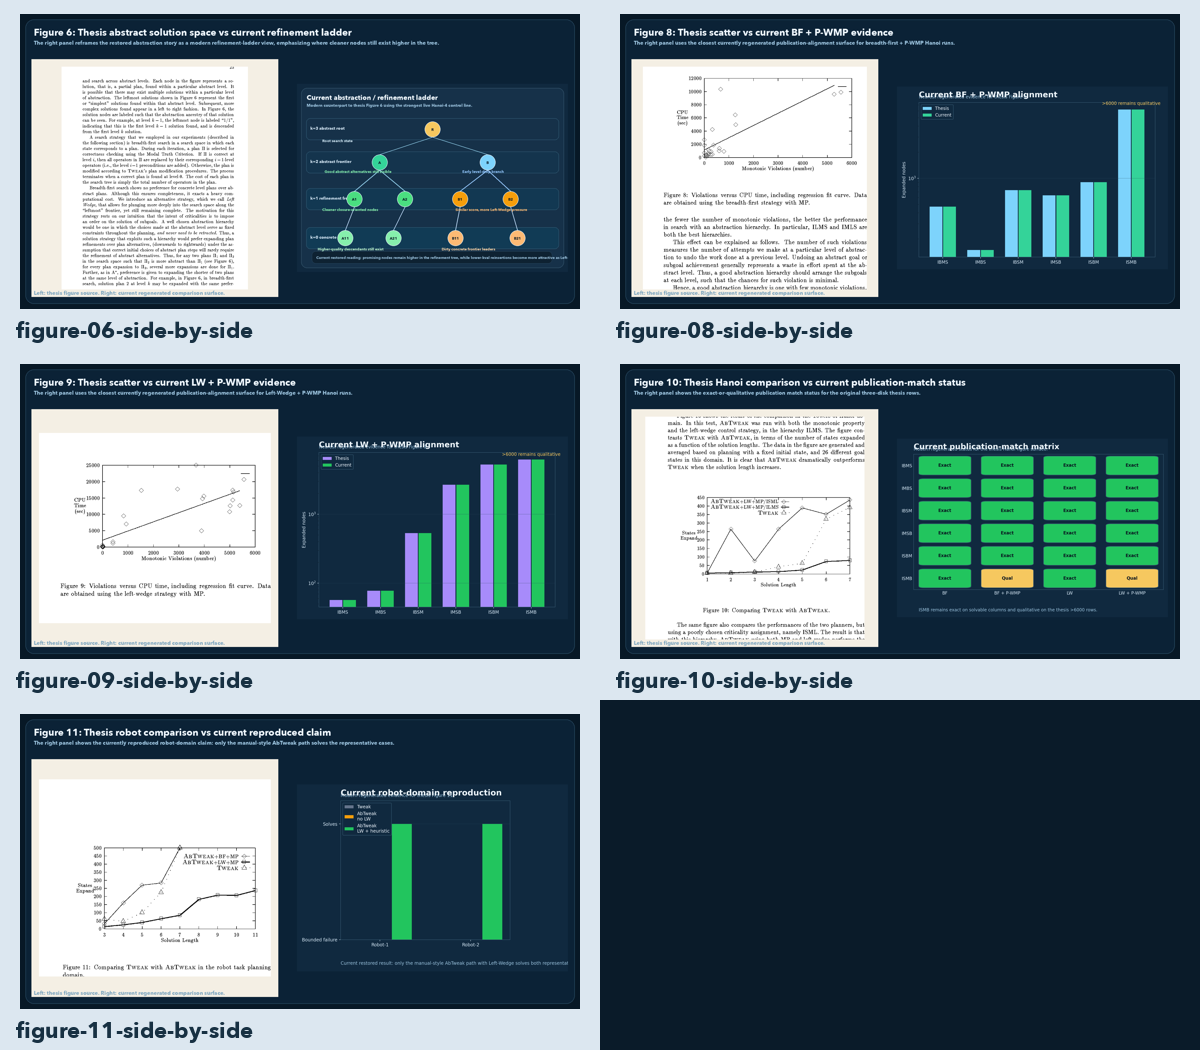
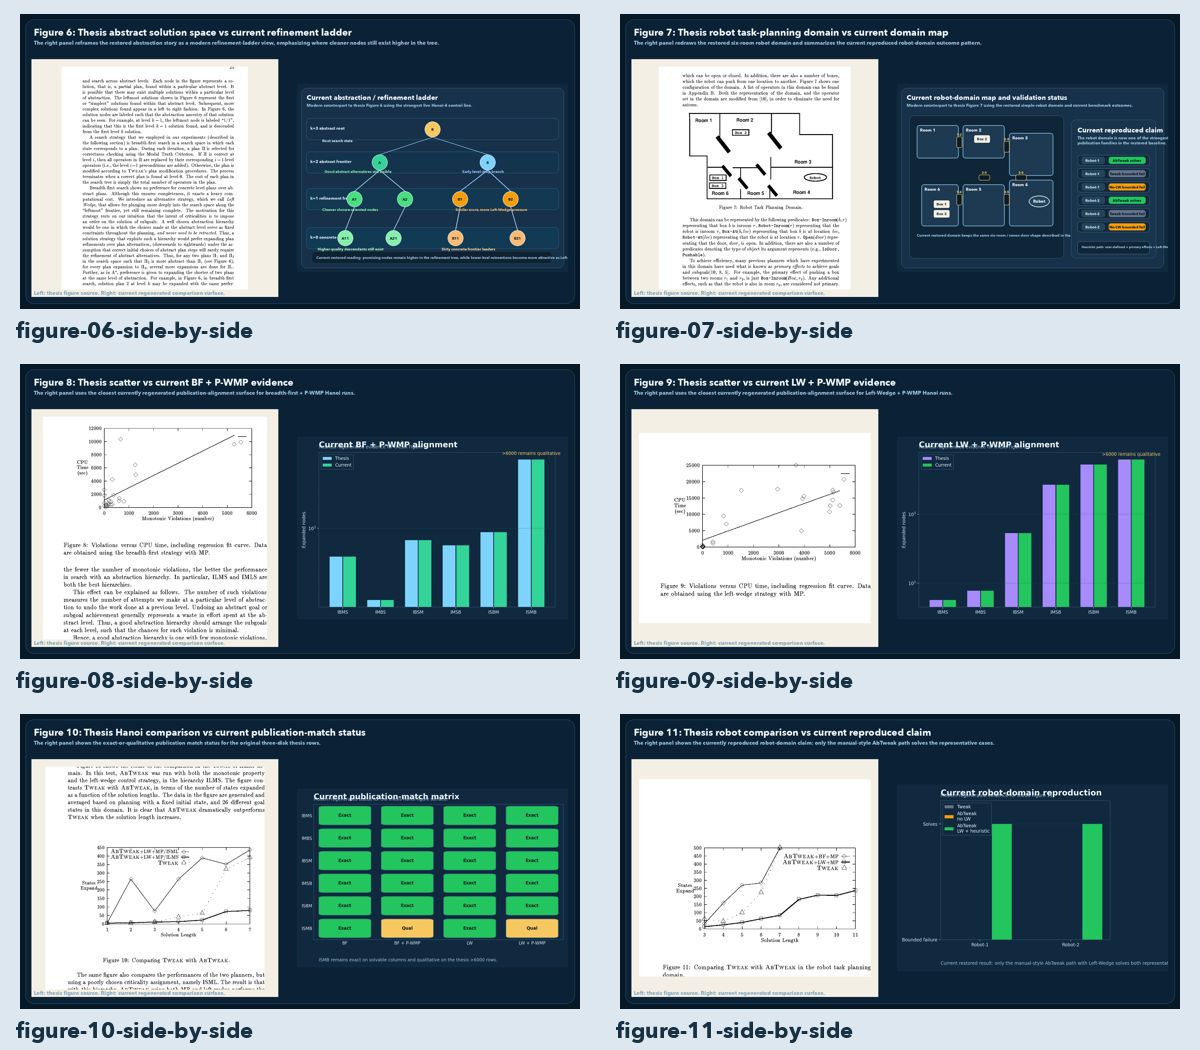
Extend thesis gallery with figure 7 and public home link

diff --git a/site/mmath-renovation-public-page.html b/site/mmath-renovation-public-page.html
@@ -51,7 +51,31 @@
         }
 
         .hero {
+            position: relative;
             padding: 36px 34px 32px;
+        }
+
+        .siteHomeLink {
+            position: absolute;
+            top: 28px;
+            right: 30px;
+            display: inline-flex;
+            align-items: center;
+            justify-content: center;
+            padding: 10px 16px;
+            border-radius: 999px;
+            background: rgba(255, 255, 255, 0.08);
+            border: 1px solid rgba(177, 222, 255, 0.18);
+            color: #d7ecff;
+            text-decoration: none;
+            font-size: 13px;
+            letter-spacing: .1em;
+            text-transform: uppercase;
+        }
+
+        .siteHomeLink:hover {
+            background: rgba(121, 184, 255, 0.18);
+            border-color: rgba(121, 184, 255, 0.28);
         }
 
         .eyebrow {
@@ -187,12 +211,18 @@
             .panel {
                 padding: 24px 22px;
             }
+
+            .siteHomeLink {
+                position: static;
+                margin-bottom: 18px;
+            }
         }
     </style>
 </head>
 <body>
     <main class="shell">
         <section class="hero">
+            <a class="siteHomeLink" href="https://sgwoods.github.io/public">Steven Woods</a>
             <span class="eyebrow">Public Project Page</span>
             <h1>Masters of Mathematics Renovation</h1>
             <p>A living restoration of Steven Woods' Masters of Mathematics AbTweak research code, rebuilt around a modern SBCL baseline while preserving the thesis, paper, and historical benchmark story as faithfully as possible.</p>

diff --git a/scripts/generate-thesis-side-by-side.py b/scripts/generate-thesis-side-by-side.py
@@ -23,6 +23,7 @@ THESIS_RENDER_DIR = OUT_DIR / "_thesis-pages"
 
 PAGE_MAP = {
     "figure-06": 24,
+    "figure-07": 27,
     "figure-08": 33,
     "figure-09": 34,
     "figure-10": 36,
@@ -31,6 +32,7 @@ PAGE_MAP = {
 
 CROP_BOXES = {
     "figure-06": (120, 220, 1115, 1410),
+    "figure-07": (110, 250, 1100, 1400),
     "figure-08": (150, 320, 1040, 1205),
     "figure-09": (150, 500, 1040, 1230),
     "figure-10": (140, 360, 1040, 1275),
@@ -208,6 +210,92 @@ def make_fig06_chart(path: Path) -> None:
     canvas.save(path)
 
 
+def make_fig07_chart(path: Path) -> None:
+    canvas = Image.new("RGB", (1180, 820), "#10293f")
+    draw = ImageDraw.Draw(canvas)
+    title_font = font(30)
+    body_font = font(18)
+    small_font = font(16)
+    tiny_font = font(14)
+
+    draw.rounded_rectangle((18, 18, 1162, 802), radius=26, fill="#163149", outline="#34546b", width=2)
+    draw.text((42, 40), "Current robot-domain map and validation status", fill="#eff7ff", font=title_font)
+    draw.text(
+        (42, 82),
+        "Modern counterpart to thesis Figure 7 using the restored simple-robot domain and current benchmark outcomes.",
+        fill="#9cc4df",
+        font=body_font,
+    )
+
+    panel = (54, 138, 726, 760)
+    draw.rounded_rectangle(panel, radius=20, fill="#0f2538", outline="#32526a", width=2)
+
+    def room(x1, y1, x2, y2, label):
+        draw.rounded_rectangle((x1, y1, x2, y2), radius=12, fill="#1e3a52", outline="#7fb3d5", width=3)
+        draw.text((x1 + 14, y1 + 10), label, fill="#eff7ff", font=body_font)
+
+    room(86, 180, 268, 324, "Room 1")
+    room(286, 180, 468, 324, "Room 2")
+    room(488, 214, 680, 400, "Room 3")
+    room(488, 418, 680, 620, "Room 4")
+    room(286, 438, 468, 620, "Room 5")
+    room(106, 438, 268, 620, "Room 6")
+
+    def door(x1, y1, x2, y2, label):
+        draw.rounded_rectangle((x1, y1, x2, y2), radius=7, fill="#0b1c2a", outline="#f6c85f", width=2)
+        bbox = draw.textbbox((0, 0), label, font=tiny_font)
+        draw.text((x1 + (x2 - x1 - (bbox[2] - bbox[0])) / 2, y1 - 18), label, fill="#f6c85f", font=tiny_font)
+
+    door(259, 230, 283, 278, "1-2")
+    door(465, 250, 489, 298, "2-3")
+    door(465, 480, 489, 528, "4-5")
+    door(259, 480, 283, 528, "5-6")
+    door(356, 396, 404, 420, "2-5")
+    door(516, 396, 564, 420, "3-5")
+
+    def item_box(x, y, label, fill="#f4efe4", outline="#173042", text="#173042"):
+        draw.rounded_rectangle((x, y, x + 72, y + 36), radius=8, fill=fill, outline=outline, width=2)
+        bbox = draw.textbbox((0, 0), label, font=small_font)
+        draw.text((x + (72 - (bbox[2] - bbox[0])) / 2, y + 8), label, fill=text, font=small_font)
+
+    item_box(158, 506, "Box 1")
+    item_box(334, 222, "Box 2")
+    item_box(158, 548, "Box 3")
+
+    draw.ellipse((574, 487, 664, 537), outline="#f4efe4", width=3, fill="#224562")
+    rbbox = draw.textbbox((0, 0), "Robot", font=body_font)
+    draw.text((619 - (rbbox[2] - rbbox[0]) / 2, 500), "Robot", fill="#eff7ff", font=body_font)
+
+    draw.text((86, 650), "Current restored domain keeps the same six-room / seven-door shape described in the thesis.", fill="#9cc4df", font=small_font)
+
+    draw.rounded_rectangle((758, 156, 1128, 760), radius=20, fill="#19354d", outline="#32526a", width=2)
+    draw.text((786, 182), "Current reproduced claim", fill="#eff7ff", font=title_font)
+    draw.text((786, 224), "The robot domain is now one of the strongest validated\npublication families in the restored baseline.", fill="#9cc4df", font=body_font)
+
+    badges = [
+        ("Robot-1", "AbTweak solves", "#22c55e"),
+        ("Robot-1", "Tweak bounded fail", "#64748b"),
+        ("Robot-1", "No-LW bounded fail", "#f59e0b"),
+        ("Robot-2", "AbTweak solves", "#22c55e"),
+        ("Robot-2", "Tweak bounded fail", "#64748b"),
+        ("Robot-2", "No-LW bounded fail", "#f59e0b"),
+    ]
+    y = 310
+    for left, right, color in badges:
+        draw.rounded_rectangle((786, y, 1100, y + 46), radius=12, fill="#11283c", outline="#3e617a", width=2)
+        draw.rounded_rectangle((804, y + 8, 904, y + 38), radius=10, fill="#24445b", outline="#406780", width=1)
+        draw.text((820, y + 14), left, fill="#d7e9f7", font=small_font)
+        draw.rounded_rectangle((922, y + 8, 1082, y + 38), radius=10, fill=color, outline=color, width=1)
+        bbox = draw.textbbox((0, 0), right, font=small_font)
+        draw.text((1002 - (bbox[2] - bbox[0]) / 2, y + 14), right, fill="#08141f", font=small_font)
+        y += 58
+
+    draw.rounded_rectangle((786, 686, 1100, 742), radius=12, fill="#0f2538", outline="#3e617a", width=2)
+    draw.text((804, 702), "Heuristic path: user-defined + primary effects + Left-Wedge", fill="#9cc4df", font=tiny_font)
+
+    canvas.save(path)
+
+
 def make_fig08_chart(path: Path) -> None:
     x = range(len(HIERARCHIES))
     fig, ax = plt.subplots(figsize=(8.6, 5.8))
@@ -330,16 +418,19 @@ def main() -> None:
     MPL_CACHE_DIR.mkdir(parents=True, exist_ok=True)
     render_thesis_pages()
     chart06 = OUT_DIR / "figure-06-current-chart.png"
+    chart07 = OUT_DIR / "figure-07-current-chart.png"
     chart08 = OUT_DIR / "figure-08-current-chart.png"
     chart09 = OUT_DIR / "figure-09-current-chart.png"
     chart10 = OUT_DIR / "figure-10-current-chart.png"
     chart11 = OUT_DIR / "figure-11-current-chart.png"
     make_fig06_chart(chart06)
+    make_fig07_chart(chart07)
     make_fig08_chart(chart08)
     make_fig09_chart(chart09)
     make_fig10_chart(chart10)
     make_fig11_chart(chart11)
     final06 = OUT_DIR / "figure-06-side-by-side.png"
+    final07 = OUT_DIR / "figure-07-side-by-side.png"
     final08 = OUT_DIR / "figure-08-side-by-side.png"
     final09 = OUT_DIR / "figure-09-side-by-side.png"
     final10 = OUT_DIR / "figure-10-side-by-side.png"
@@ -350,6 +441,13 @@ def main() -> None:
         chart06,
         final06,
         "The right panel reframes the restored abstraction story as a modern refinement-ladder view, emphasizing where cleaner nodes still exist higher in the tree.",
+    )
+    combine_side_by_side(
+        "Figure 7: Thesis robot task-planning domain vs current domain map",
+        crop_thesis_figure("figure-07"),
+        chart07,
+        final07,
+        "The right panel redraws the restored six-room robot domain and summarizes the current reproduced robot-domain outcome pattern.",
     )
     combine_side_by_side(
         "Figure 8: Thesis scatter vs current BF + P-WMP evidence",
@@ -379,7 +477,7 @@ def main() -> None:
         final11,
         "The right panel shows the currently reproduced robot-domain claim: only the manual-style AbTweak path solves the representative cases.",
     )
-    make_contact_sheet([final06, final08, final09, final10, final11], OUT_DIR / "gallery-contact-sheet.png")
+    make_contact_sheet([final06, final07, final08, final09, final10, final11], OUT_DIR / "gallery-contact-sheet.png")
 
 
 if __name__ == "__main__":

diff --git a/docs/thesis-figure-inventory.md b/docs/thesis-figure-inventory.md
@@ -28,7 +28,7 @@ Current mapped gallery:
 | `4` | Separation Justification | `19` | `Open` | Same status as Figure 3: understood theoretically, not yet recreated as a maintained modern graphic. |
 | `5` | Promotion Justification | `19` | `Open` | Same status as Figures 3 and 4. |
 | `6` | Representing the abstract solution space | `24` | `Mapped` | Maintained side-by-side panel at [analysis/thesis-side-by-side/figure-06-side-by-side.png](/Users/stevenwoods/mmath-renovation/analysis/thesis-side-by-side/figure-06-side-by-side.png), using a modern refinement-ladder diagram grounded in the current abstraction and lineage diagnosis. |
-| `7` | Robot Task Planning Domain | `27` | `Partial` | Strong current robot-domain validation exists in [docs/tweak-vs-abtweak-comparison.md](/Users/stevenwoods/mmath-renovation/docs/tweak-vs-abtweak-comparison.md) and [docs/historical-validation-matrix.md](/Users/stevenwoods/mmath-renovation/docs/historical-validation-matrix.md), but the domain map itself is not yet recreated. |
+| `7` | Robot Task Planning Domain | `27` | `Mapped` | Maintained side-by-side panel at [analysis/thesis-side-by-side/figure-07-side-by-side.png](/Users/stevenwoods/mmath-renovation/analysis/thesis-side-by-side/figure-07-side-by-side.png), combining the thesis domain map with a modern redraw and current robot-domain outcome summary. |
 | `8` | Violations versus CPU time, including regression fit curve; breadth-first with MP | `33` | `Mapped` | Maintained side-by-side panel at [analysis/thesis-side-by-side/figure-08-side-by-side.png](/Users/stevenwoods/mmath-renovation/analysis/thesis-side-by-side/figure-08-side-by-side.png). |
 | `9` | Violations versus CPU time, including regression fit curve; left-wedge with MP | `34` | `Mapped` | Maintained side-by-side panel at [analysis/thesis-side-by-side/figure-09-side-by-side.png](/Users/stevenwoods/mmath-renovation/analysis/thesis-side-by-side/figure-09-side-by-side.png). |
 | `10` | Comparing Tweak with AbTweak | `36` | `Mapped` | Maintained side-by-side panel at [analysis/thesis-side-by-side/figure-10-side-by-side.png](/Users/stevenwoods/mmath-renovation/analysis/thesis-side-by-side/figure-10-side-by-side.png). |
@@ -38,12 +38,13 @@ Current mapped gallery:
 
 The next strongest candidates for extension are:
 
-1. Figure `7`, because the robot-domain validation story is already strong and
-   only lacks the domain-structure panel.
-2. Figures `3` to `5`, if we decide to recreate the theoretical justification
+1. Figures `3` to `5`, if we decide to recreate the theoretical justification
    diagrams as maintained explanatory artifacts.
-3. Figure `1` and Figure `2`, if we want the introduction sequence to be
+2. Figure `1` and Figure `2`, if we want the introduction sequence to be
    complete for public readability.
+3. Figure `6` and Figure `7` are now the best template for adding other
+   non-numeric thesis figures: thesis source on the left, modern validated
+   explanatory counterpart on the right.
 
 ## Maintenance Rule
 

diff --git a/docs/thesis-side-by-side-graphics.md b/docs/thesis-side-by-side-graphics.md
@@ -15,6 +15,7 @@ For each item:
 Current gallery outputs:
 
 - [Figure 6 side by side](/Users/stevenwoods/mmath-renovation/analysis/thesis-side-by-side/figure-06-side-by-side.png)
+- [Figure 7 side by side](/Users/stevenwoods/mmath-renovation/analysis/thesis-side-by-side/figure-07-side-by-side.png)
 - [Figure 8 side by side](/Users/stevenwoods/mmath-renovation/analysis/thesis-side-by-side/figure-08-side-by-side.png)
 - [Figure 9 side by side](/Users/stevenwoods/mmath-renovation/analysis/thesis-side-by-side/figure-09-side-by-side.png)
 - [Figure 10 side by side](/Users/stevenwoods/mmath-renovation/analysis/thesis-side-by-side/figure-10-side-by-side.png)
@@ -32,10 +33,13 @@ Interpretation:
 
 - Figure 6 uses a maintained modern refinement-ladder diagram that reflects the
   current restored abstraction and lineage diagnosis.
+- Figure 7 uses a maintained modern robot-domain map and validation-status
+  panel based on the restored `simple-robot` domain and current benchmark
+  outcomes.
 - Figures 8 and 9 currently use the nearest regenerated Hanoi publication-alignment surfaces.
 - Figure 10 uses the exact-or-qualitative publication-match matrix for the original three-disk Hanoi rows.
 - Figure 11 uses the current reproduced robot-domain claim surface.
-- Figures 1 to 5 and 7 are inventoried but not yet all mapped into maintained
+- Figures 1 to 5 are inventoried but not yet all mapped into maintained
   side-by-side panels.
 
 These are intended to be maintained artifacts, not one-off exports.

diff --git a/releases/0.10.0-beta.1/release-summary.md b/releases/0.10.0-beta.1/release-summary.md
@@ -1,8 +1,8 @@
 # Release Summary: 0.10.0-beta.1
 
-- Timestamp (UTC): `2026-03-22T14:50:30Z`
+- Timestamp (UTC): `2026-03-22T14:58:29Z`
 - Git branch: `main`
-- Source git commit captured by snapshot: `cd4b3cab033e36048ec7632c117cd310b08fee73`
+- Source git commit captured by snapshot: `6e2dde791475166a345a6dd40eb12f1da3907dbf`
 - Version: `0.10.0-beta.1`
 
 This release snapshot captures the checked-in documentation and benchmark
